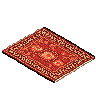
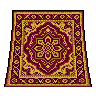
Regenerate all furniture via PixelLab (cleaner iso, sits on the floor)
Furniture is now produced through PixelLab's /v2/objects endpoint
instead of Retro Diffusion:
  directions=1 (single static angle)
  view='low top-down' (closest to our 2:1 iso projection)
  n_frames=1, no_background=true
  image size 96x96

tools/generate-furniture-pixellab.py drives the full catalogue:
  chair_wood, sofa_red, bed_blue, plant_tall, table_round,
  lamp_floor, rug_persian, bookshelf, tv_crt, fridge, desk_wood,
  computer, fish_tank, painting — 14 items total.

PixelLab returns either inline base64 OR a storage URL on
backblaze.pixellab.ai; the script handles both. Note: Backblaze
rejects the default Python User-Agent, so we set a real one when
fetching PNGs.

Catalogues updated across preview/furniture.js, the Flutter
furniture_catalog, the server's /catalog/furniture endpoint, and
the demo room layout now includes the new pieces.

Cost: ~$0.01 per object × 14 = ~$0.15. The new sprites all sit
flush on their tiles (no hovering) and look noticeably cleaner
than the RD outputs.

diff --git a/preview/furniture.js b/preview/furniture.js
@@ -18,19 +18,30 @@ const FURNITURE_CATALOG = [
   { id: 'table_round', name: 'Round table' },
   { id: 'lamp_floor',  name: 'Floor lamp' },
   { id: 'rug_persian', name: 'Persian rug' },
+  { id: 'bookshelf',   name: 'Bookshelf' },
+  { id: 'tv_crt',      name: 'CRT TV' },
+  { id: 'fridge',      name: 'Fridge' },
+  { id: 'desk_wood',   name: 'Wooden desk' },
+  { id: 'computer',    name: 'Computer' },
+  { id: 'fish_tank',   name: 'Fish tank' },
+  { id: 'painting',    name: 'Painting' },
 ];
 
 // Per-room placements. Eventually this comes from /users/:id/room.
 // { id, col, row } — col/row are tile coords in the 10x8 room.
 const ROOM_FURNITURE = [
+  { id: 'bookshelf',   col: 0, row: 0 },
   { id: 'sofa_red',    col: 1, row: 1 },
-  { id: 'lamp_floor',  col: 0, row: 0 },
   { id: 'table_round', col: 2, row: 2 },
-  { id: 'bed_blue',    col: 8, row: 1 },
-  { id: 'rug_persian', col: 5, row: 4 },
+  { id: 'lamp_floor',  col: 3, row: 0 },
+  { id: 'tv_crt',      col: 5, row: 0 },
+  { id: 'fridge',      col: 8, row: 0 },
+  { id: 'bed_blue',    col: 8, row: 2 },
+  { id: 'rug_persian', col: 4, row: 4 },
+  { id: 'chair_wood',  col: 6, row: 3 },
   { id: 'plant_tall',  col: 9, row: 7 },
   { id: 'plant_tall',  col: 0, row: 7 },
-  { id: 'chair_wood',  col: 6, row: 4 },
+  { id: 'fish_tank',   col: 2, row: 6 },
 ];
 
 const furnitureSprites = {};

diff --git a/mobile/lib/features/room/den_game.dart b/mobile/lib/features/room/den_game.dart
@@ -50,14 +50,18 @@ class DenGame extends FlameGame with TapCallbacks {
 
     // ── Demo furniture placements (will come from /users/:id/room later) ──
     const demoLayout = [
+      FurniturePlacement(id: 'bookshelf',   col: 0, row: 0),
       FurniturePlacement(id: 'sofa_red',    col: 1, row: 1),
-      FurniturePlacement(id: 'lamp_floor',  col: 0, row: 0),
       FurniturePlacement(id: 'table_round', col: 2, row: 2),
-      FurniturePlacement(id: 'bed_blue',    col: 8, row: 1),
-      FurniturePlacement(id: 'rug_persian', col: 5, row: 4),
+      FurniturePlacement(id: 'lamp_floor',  col: 3, row: 0),
+      FurniturePlacement(id: 'tv_crt',      col: 5, row: 0),
+      FurniturePlacement(id: 'fridge',      col: 8, row: 0),
+      FurniturePlacement(id: 'bed_blue',    col: 8, row: 2),
+      FurniturePlacement(id: 'rug_persian', col: 4, row: 4),
+      FurniturePlacement(id: 'chair_wood',  col: 6, row: 3),
       FurniturePlacement(id: 'plant_tall',  col: 9, row: 7),
       FurniturePlacement(id: 'plant_tall',  col: 0, row: 7),
-      FurniturePlacement(id: 'chair_wood',  col: 6, row: 4),
+      FurniturePlacement(id: 'fish_tank',   col: 2, row: 6),
     ];
     for (final p in demoLayout) {
       world.add(FurnitureComponent(itemId: p.id, col: p.col, row: p.row));

diff --git a/mobile/lib/features/room/furniture_catalog.dart b/mobile/lib/features/room/furniture_catalog.dart
@@ -16,6 +16,13 @@ class FurnitureCatalog {
     FurnitureItem(id: 'table_round', name: 'Round table'),
     FurnitureItem(id: 'lamp_floor',  name: 'Floor lamp'),
     FurnitureItem(id: 'rug_persian', name: 'Persian rug'),
+    FurnitureItem(id: 'bookshelf',   name: 'Bookshelf'),
+    FurnitureItem(id: 'tv_crt',      name: 'CRT TV'),
+    FurnitureItem(id: 'fridge',      name: 'Fridge'),
+    FurnitureItem(id: 'desk_wood',   name: 'Wooden desk'),
+    FurnitureItem(id: 'computer',    name: 'Computer'),
+    FurnitureItem(id: 'fish_tank',   name: 'Fish tank'),
+    FurnitureItem(id: 'painting',    name: 'Painting'),
   ];
 }
 

diff --git a/server-api/src/index.ts b/server-api/src/index.ts
@@ -131,6 +131,13 @@ async function main() {
       { id: 'table_round', name: 'Round table' },
       { id: 'lamp_floor',  name: 'Floor lamp' },
       { id: 'rug_persian', name: 'Persian rug' },
+      { id: 'bookshelf',   name: 'Bookshelf' },
+      { id: 'tv_crt',      name: 'CRT TV' },
+      { id: 'fridge',      name: 'Fridge' },
+      { id: 'desk_wood',   name: 'Wooden desk' },
+      { id: 'computer',    name: 'Computer' },
+      { id: 'fish_tank',   name: 'Fish tank' },
+      { id: 'painting',    name: 'Painting' },
     ],
   }));
 

diff --git a/preview/index.html b/preview/index.html
@@ -383,7 +383,7 @@
 
 <!-- v query busts the browser cache when these files change -->
 <script src="wardrobe.js?v=7"></script>
-<script src="furniture.js?v=7"></script>
+<script src="furniture.js?v=10"></script>
 <script src="renderer.js?v=7"></script>
 <script src="customiser.js?v=9"></script>
 </body>

diff --git a/preview/renderer.js b/preview/renderer.js
@@ -25,7 +25,7 @@ const BUBBLE_LIFETIME = 4.5;
 const BUBBLE_RISE_SPEED = 26;
 
 // Bump when regenerating sprites so the browser fetches the new PNGs.
-const SPRITE_VERSION = 7;
+const SPRITE_VERSION = 10;
 
 const PAL = {
   skyTop:        '#1A2744',

diff --git a/tools/generate-furniture-pixellab.py b/tools/generate-furniture-pixellab.py
@@ -1,0 +1,170 @@
+#!/usr/bin/env python3
+"""
+PixelLab furniture generator for Den.
+
+Each item is created via POST /v2/objects with:
+  directions = 1  (single static angle — furniture doesn't rotate)
+  view = "low top-down"  (closest to our 2:1 iso projection)
+  n_frames = 1
+  no_background = true
+
+Output: mobile/assets/furniture/<id>.png + preview/furniture/<id>.png
+
+Usage:
+  export PIXELLAB_API_KEY=...
+  python tools/generate-furniture-pixellab.py            # missing only
+  python tools/generate-furniture-pixellab.py --force    # regenerate all
+  python tools/generate-furniture-pixellab.py chair_wood # one item
+"""
+
+from __future__ import annotations
+import base64, json, os, sys, time
+from pathlib import Path
+from urllib import request, error
+from PIL import Image
+try:
+    sys.stdout.reconfigure(encoding="utf-8")
+except Exception:
+    pass
+
+API_KEY = os.environ.get("PIXELLAB_API_KEY")
+if not API_KEY:
+    print("Set PIXELLAB_API_KEY env var.", file=sys.stderr); sys.exit(1)
+
+BASE = "https://api.pixellab.ai/v2"
+HEADERS = {"Authorization": f"Bearer {API_KEY}", "Content-Type": "application/json"}
+
+REPO = Path(__file__).resolve().parent.parent
+MOBILE_OUT  = REPO / "mobile" / "assets" / "furniture"
+PREVIEW_OUT = REPO / "preview" / "furniture"
+MOBILE_OUT.mkdir(parents=True, exist_ok=True)
+PREVIEW_OUT.mkdir(parents=True, exist_ok=True)
+
+# Image size for furniture. 96 matches our existing renderer constants.
+SIZE = 96
+
+# Each entry: (id, description, seed)
+CATALOG = [
+    ("chair_wood",  "wooden dining chair, simple flat shading, Habbo Hotel furniture style", 900),
+    ("sofa_red",    "red two-seater sofa couch with plush cushions, Habbo Hotel furniture style", 901),
+    ("bed_blue",    "single bed with blue blanket and white pillow, wooden frame, Habbo Hotel furniture style", 902),
+    ("plant_tall",  "tall potted houseplant with green leaves in terracotta pot, Habbo Hotel furniture style", 903),
+    ("table_round", "round wooden coffee table with four legs, Habbo Hotel furniture style", 904),
+    ("lamp_floor",  "floor lamp with cream lampshade and brass stand, Habbo Hotel furniture style", 905),
+    ("rug_persian", "persian rug with red and gold ornate pattern, flat on the floor, Habbo Hotel furniture style", 906),
+    ("bookshelf",   "tall wooden bookshelf filled with colorful books, Habbo Hotel furniture style", 907),
+    ("tv_crt",      "retro CRT television on a low stand with antenna, dark grey casing, Habbo Hotel furniture style", 908),
+    ("fridge",      "white kitchen refrigerator with chrome handle, Habbo Hotel furniture style", 909),
+    ("desk_wood",   "small wooden desk with one drawer, Habbo Hotel furniture style", 910),
+    ("computer",    "beige retro desktop computer with CRT monitor and keyboard, Habbo Hotel furniture style", 911),
+    ("fish_tank",   "rectangular glass aquarium with two orange fish, green plants and blue water, Habbo Hotel furniture style", 912),
+    ("painting",    "framed wall painting of a green landscape with gold frame, Habbo Hotel furniture style", 913),
+]
+
+def api_post(path: str, body: dict) -> dict:
+    req = request.Request(BASE + path, method="POST", headers=HEADERS, data=json.dumps(body).encode())
+    try:
+        with request.urlopen(req, timeout=120) as r:
+            return json.loads(r.read())
+    except error.HTTPError as e:
+        raise RuntimeError(f"HTTP {e.code}: {e.read().decode()[:400]}")
+
+def api_get(path: str) -> dict:
+    req = request.Request(BASE + path, headers=HEADERS)
+    with request.urlopen(req, timeout=60) as r:
+        return json.loads(r.read())
+
+def wait_for_job(job_id: str, timeout_s: int = 600) -> dict:
+    start = time.time()
+    while time.time() - start < timeout_s:
+        data = api_get(f"/background-jobs/{job_id}")
+        status = data.get("status", "?")
+        if status == "completed": return data
+        if status in ("failed", "error"):
+            raise RuntimeError(f"Job {job_id} {status}: {json.dumps(data)[:400]}")
+        time.sleep(6)
+    raise RuntimeError(f"Job {job_id} timed out")
+
+def decode_rgba(img_data: dict) -> Image.Image:
+    raw = base64.b64decode(img_data["base64"])
+    w = img_data["width"]
+    h = img_data.get("height") or len(raw) // (4 * w)
+    return Image.frombytes("RGBA", (w, h), raw)
+
+def generate_item(item_id: str, description: str, seed: int) -> Image.Image:
+    print(f"  POST /objects...", end="", flush=True)
+    r = api_post("/objects", {
+        "description": description,
+        "directions": 1,
+        "image_size": {"width": SIZE, "height": SIZE},
+        "view": "low top-down",
+        "n_frames": 1,
+        "no_background": True,
+        "seed": seed,
+    })
+    # Some responses come back synchronously with the image already attached.
+    try:
+        return _extract_image(r)
+    except RuntimeError:
+        pass
+    if "background_job_id" in r:
+        job_id = r["background_job_id"]
+    elif "background_job_ids" in r and r["background_job_ids"]:
+        job_id = r["background_job_ids"][0]
+    else:
+        raise RuntimeError(f"Unexpected response: {json.dumps(r)[:400]}")
+
+    data = wait_for_job(job_id)
+    resp = data.get("last_response", {})
+    return _extract_image(resp)
+
+def _fetch_png(url: str) -> Image.Image:
+    from io import BytesIO
+    # Backblaze CDN rejects the default Python User-Agent — set a real one.
+    req = request.Request(url, headers={"User-Agent": "Mozilla/5.0 (den-tools)"})
+    with request.urlopen(req, timeout=60) as r:
+        return Image.open(BytesIO(r.read())).convert("RGBA")
+
+def _extract_image(resp: dict) -> Image.Image:
+    """Find an image somewhere in the PixelLab response (inline base64
+    or a storage URL). NOTE: `directions` in a response is the int echoed
+    from the request body, not a container."""
+    if "images" in resp and resp["images"]:
+        return decode_rgba(resp["images"][0])
+    if "image" in resp and isinstance(resp["image"], dict):
+        return decode_rgba(resp["image"])
+    storage = resp.get("storage_urls")
+    if isinstance(storage, dict):
+        for _key, url in storage.items():
+            if isinstance(url, str) and url.startswith("http"):
+                return _fetch_png(url)
+    raise RuntimeError(f"No image in response: {json.dumps(resp)[:500]}")
+
+def main():
+    args = sys.argv[1:]
+    force = "--force" in args
+    id_filter = next((a for a in args if not a.startswith("--")), None)
+    items = [c for c in CATALOG if (id_filter is None or c[0] == id_filter)]
+    if id_filter and not items:
+        print(f"No item {id_filter!r}", file=sys.stderr); sys.exit(1)
+
+    print(f"Furniture: {len(items)} items")
+    for i, (item_id, desc, seed) in enumerate(items, 1):
+        out_m = MOBILE_OUT  / f"{item_id}.png"
+        out_p = PREVIEW_OUT / f"{item_id}.png"
+        if out_m.exists() and not force:
+            print(f"[{i:>2}/{len(items)}] {item_id:<24} [skip]")
+            continue
+        start = time.time()
+        print(f"[{i:>2}/{len(items)}] {item_id:<24} ", end="", flush=True)
+        try:
+            img = generate_item(item_id, desc, seed)
+            img.save(out_m); img.save(out_p)
+            print(f" [ok] {time.time()-start:.1f}s")
+        except Exception as e:
+            print(f" [fail] {e}")
+            if "HTTP 402" in str(e) or "Not enough" in str(e):
+                print("Out of credits — stopping."); break
+
+if __name__ == "__main__":
+    main()
